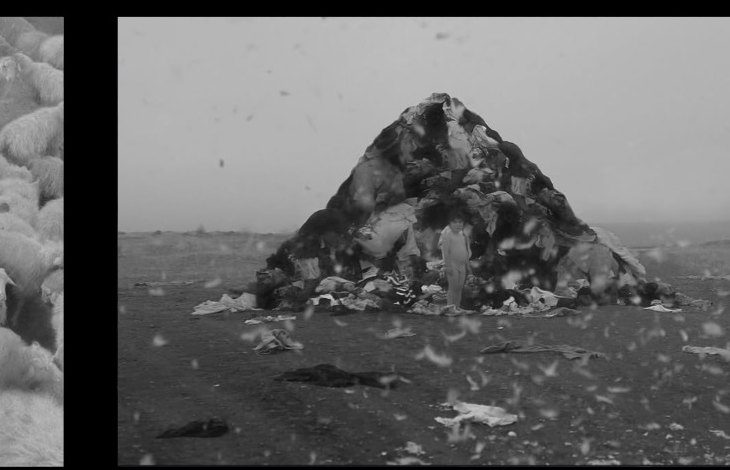
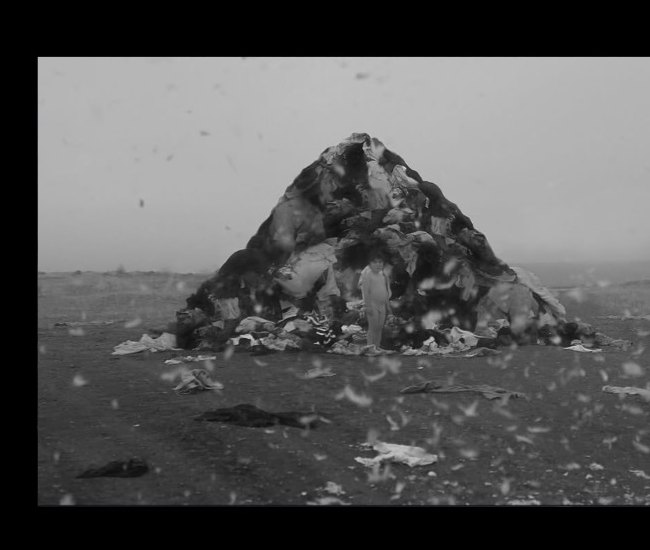
fix: precise photography crops, masonry layout, no marquee, centered hero, new subtitle

diff --git a/styles.css b/styles.css
@@ -135,12 +135,17 @@ body.ready .loader{opacity:0;visibility:hidden}
   font-family:var(--sans);font-weight:700;letter-spacing:-.025em;
   font-size:clamp(40px,8vw,96px);
   line-height:1;color:var(--fg);
-  display:flex;align-items:flex-end;justify-content:center;
-  gap:0;
+  width:100%;
+  text-align:center;
+  margin:0;
+}
+.hero-mark{
+  display:inline-flex;align-items:flex-end;justify-content:center;gap:0;
+  text-align:center;
 }
 .hero-l,.hero-r{display:inline-block;opacity:0;transform:translateY(20px);animation:heroIn 1.1s var(--ease) .35s forwards}
 .hero-r{animation-delay:.55s}
-.hero-dot{display:inline-block;font-weight:300;font-size:.55em;margin:0 .15ch .15em;opacity:0;transform:scale(0);animation:heroDot .6s var(--ease) 1.1s forwards}
+.hero-dot{display:inline-block;font-weight:300;font-size:.55em;margin:0 .14ch .14em;opacity:0;transform:scale(0);animation:heroDot .6s var(--ease) 1.1s forwards}
 @keyframes heroIn{to{opacity:1;transform:translateY(0)}}
 @keyframes heroDot{to{opacity:1;transform:scale(1)}}
 .hero-tag{
@@ -281,6 +286,20 @@ body.ready .loader{opacity:0;visibility:hidden}
 @media (max-width:760px){.grid.cols-4,.grid.cols-3{grid-template-columns:repeat(2,1fr)}}
 @media (max-width:480px){.grid.cols-4,.grid.cols-3,.grid.cols-2{grid-template-columns:1fr}}
 
+/* Photography masonry — varied heights, natural aspect ratios */
+.grid-photos{
+  display:block;
+  column-count:4;
+  column-gap:clamp(18px,2.2vw,30px);
+}
+.grid-photos.cols-3{column-count:3}
+.grid-photos.cols-2{column-count:2}
+.grid-photos .tile{display:block;width:100%;break-inside:avoid;margin:0 0 clamp(18px,2.2vw,30px) 0}
+.grid-photos .tile-frame{aspect-ratio:auto}
+@media (max-width:1100px){.grid-photos.cols-4{column-count:3}}
+@media (max-width:760px){.grid-photos.cols-4,.grid-photos.cols-3{column-count:2}}
+@media (max-width:480px){.grid-photos{column-count:1!important}}
+
 .tile{
   position:relative;display:block;cursor:none;
   opacity:0;transform:translateY(22px);
@@ -295,6 +314,9 @@ body.ready .loader{opacity:0;visibility:hidden}
 }
 .tile.tall .tile-frame{aspect-ratio:3/4}
 .tile.square .tile-frame{aspect-ratio:1/1}
+.tile.auto .tile-frame{aspect-ratio:auto;background:#000}
+.tile.auto .tile-frame img{height:auto;display:block;width:100%}
+.tile.auto picture{display:block}
 .tile-frame::after{
   content:"";position:absolute;inset:0;background:linear-gradient(180deg,transparent 60%,rgba(0,0,0,.4));
   opacity:0;transition:opacity .35s var(--ease);pointer-events:none;

diff --git a/index.html b/index.html
@@ -32,7 +32,7 @@
 <link rel="preconnect" href="https://www.youtube-nocookie.com">
 <link href="https://fonts.googleapis.com/css2?family=Inter:wght@300;400;500;600;700&family=Cormorant:ital,wght@0,300;0,400;0,500;1,300;1,400&family=DM+Serif+Display&display=swap" rel="stylesheet">
 
-<link rel="stylesheet" href="styles.css" />
+<link rel="stylesheet" href="styles.css?v=2" />
 
 <link rel="preload" as="image" href="assets/covers/hero.jpg" fetchpriority="high">
 <link rel="preload" as="image" href="assets/covers/jsteuer_sm.jpg">
@@ -80,25 +80,13 @@
   <section id="hero" class="section hero">
     <div class="hero-bg" aria-hidden="true"></div>
     <h1 class="hero-title">
-      <span class="hero-l">facteur</span><span class="hero-dot">.</span><span class="hero-r">humain</span>
+      <span class="hero-mark"><span class="hero-l">facteur</span><span class="hero-dot">.</span><span class="hero-r">humain</span></span>
     </h1>
-    <p class="hero-tag">Creative production based in Paris.</p>
+    <p class="hero-tag">The directors and photographers</p>
     <a href="#artists" class="hero-cta" data-cursor="link" aria-label="Voir les artistes">
       <span>Scroll</span>
       <svg viewBox="0 0 24 24" width="14" height="14" aria-hidden="true"><path d="M12 4v15m0 0l-6-6m6 6l6-6" stroke="currentColor" stroke-width="1.5" fill="none" stroke-linecap="round" stroke-linejoin="round"/></svg>
     </a>
-  </section>
-
-  <!-- MARQUEE -->
-  <section class="marquee-wrap" aria-hidden="true">
-    <div class="marquee">
-      <div class="marquee-track">
-        <span>clip · 2025</span><span>fashion week · 2026</span><span>editorial · 2025</span><span>clip · 2026</span><span>commercial · 2025</span><span>music video · 2026</span><span>documentary · 2025</span><span>fashion film · 2025</span><span>portrait · 2025</span><span>arte · 2026</span>
-      </div>
-      <div class="marquee-track" aria-hidden="true">
-        <span>clip · 2025</span><span>fashion week · 2026</span><span>editorial · 2025</span><span>clip · 2026</span><span>commercial · 2025</span><span>music video · 2026</span><span>documentary · 2025</span><span>fashion film · 2025</span><span>portrait · 2025</span><span>arte · 2026</span>
-      </div>
-    </div>
   </section>
 
   <!-- ARTISTS LIST -->
@@ -160,6 +148,6 @@
   </div>
 </div>
 
-<script src="script.js" defer></script>
+<script src="script.js?v=2" defer></script>
 </body>
 </html>

diff --git a/script.js b/script.js
@@ -302,7 +302,17 @@ function makePicture(src, alt) {
   const sw = document.createElement("source");
   sw.type = "image/webp";
   sw.srcset = webp;
-  const img = el("img", { src, alt, loading: "lazy", decoding: "async", width: "1280", height: "720" });
+  const img = el("img", { src, alt, loading: "lazy", decoding: "async" });
+  // When the image loads, propagate its natural aspect ratio to the frame
+  img.addEventListener("load", () => {
+    const frame = pic.parentElement;
+    if (frame && frame.classList.contains("tile-frame")) {
+      const tile = frame.closest(".tile");
+      if (tile && tile.classList.contains("auto")) {
+        frame.style.aspectRatio = `${img.naturalWidth} / ${img.naturalHeight}`;
+      }
+    }
+  }, { once: true });
   pic.appendChild(sw);
   pic.appendChild(img);
   return pic;
@@ -348,6 +358,7 @@ function renderSideIndex() {
 
 function makeTile(item, artistName, isPhoto = false, photoRatio = null) {
   const ratioClass = item.ratio || photoRatio || "";
+  const isAuto = ratioClass === "auto";
   const playPath = '<path d="M8 5l11 7-11 7V5z" fill="currentColor"/>';
   const isVideo = !!item.url && !item.external;
   const showPlay = isVideo && !isPhoto;
@@ -355,7 +366,7 @@ function makeTile(item, artistName, isPhoto = false, photoRatio = null) {
   const platform = e ? e.type : "";
 
   const tile = el("a", {
-    class: `tile ${ratioClass} ${isPhoto ? "no-play" : ""} ${!showPlay && !isPhoto ? "no-play" : ""}`.trim(),
+    class: `tile ${isAuto ? "auto" : ratioClass} ${isPhoto ? "no-play" : ""} ${!showPlay && !isPhoto ? "no-play" : ""}`.trim(),
     href: item.url || "#",
     "data-cursor": "link",
     "data-img": item.img,
@@ -411,9 +422,9 @@ function renderArtistPage(a) {
 
   if (a.photos && a.photos.length) {
     const cols = pickGridCols(a.photos.length);
-    const grid = el("div", { class: `grid cols-${cols}` });
+    const grid = el("div", { class: `grid grid-photos cols-${cols}` });
     a.photos.forEach((src, i) => {
-      const tile = makeTile({ img: src, t: "" }, a.name, true, a.photoRatio);
+      const tile = makeTile({ img: src, t: "" }, a.name, true, "auto");
       tile.style.transitionDelay = (i * 60) + "ms";
       grid.appendChild(tile);
     });

diff --git a/sw.js b/sw.js
@@ -1,11 +1,8 @@
 /* facteur.humain — Service Worker
-   Cache shell + assets for instant repeat loads. */
-const CACHE = "fh-v3";
-const SHELL = ["./", "./index.html", "./styles.css", "./script.js"];
+   Network-first for HTML/CSS/JS; cache-first for static assets (images/fonts). */
+const CACHE = "fh-v6";
 
-self.addEventListener("install", (e) => {
-  e.waitUntil(caches.open(CACHE).then(c => c.addAll(SHELL)).then(() => self.skipWaiting()));
-});
+self.addEventListener("install", (e) => { self.skipWaiting(); });
 self.addEventListener("activate", (e) => {
   e.waitUntil(
     caches.keys().then(keys =>
@@ -18,16 +15,30 @@ self.addEventListener("fetch", (e) => {
   if (req.method !== "GET") return;
   const url = new URL(req.url);
   if (url.origin !== self.location.origin) return;
-  e.respondWith(
-    caches.match(req).then(cached => {
-      const fetcher = fetch(req).then(res => {
+
+  const isAsset = /\.(jpg|jpeg|png|webp|gif|svg|woff2?|ttf|otf|mp4|webm)$/i.test(url.pathname);
+
+  if (isAsset) {
+    // Cache-first for static assets
+    e.respondWith(
+      caches.match(req).then(cached => cached || fetch(req).then(res => {
         if (res && res.status === 200 && res.type === "basic") {
           const copy = res.clone();
           caches.open(CACHE).then(c => c.put(req, copy));
         }
         return res;
-      }).catch(() => cached);
-      return cached || fetcher;
-    })
-  );
+      }))
+    );
+  } else {
+    // Network-first for HTML / CSS / JS
+    e.respondWith(
+      fetch(req).then(res => {
+        if (res && res.status === 200 && res.type === "basic") {
+          const copy = res.clone();
+          caches.open(CACHE).then(c => c.put(req, copy));
+        }
+        return res;
+      }).catch(() => caches.match(req))
+    );
+  }
 });
